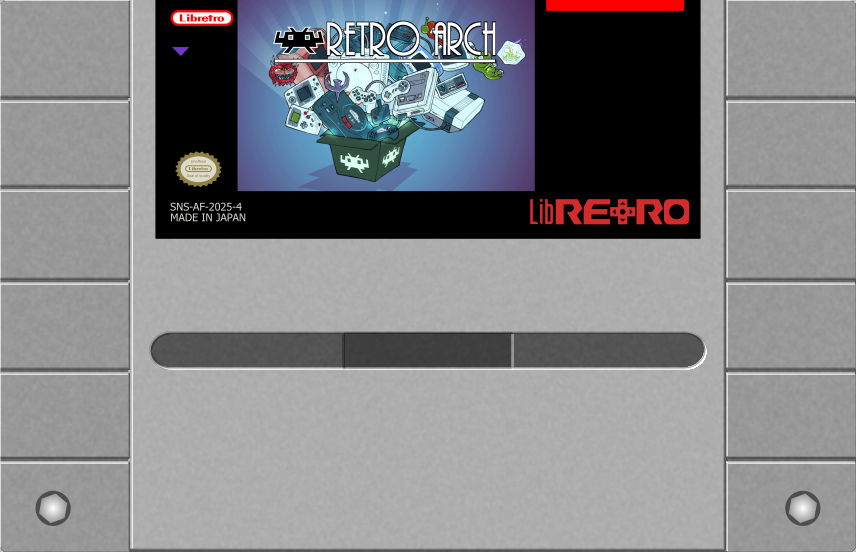
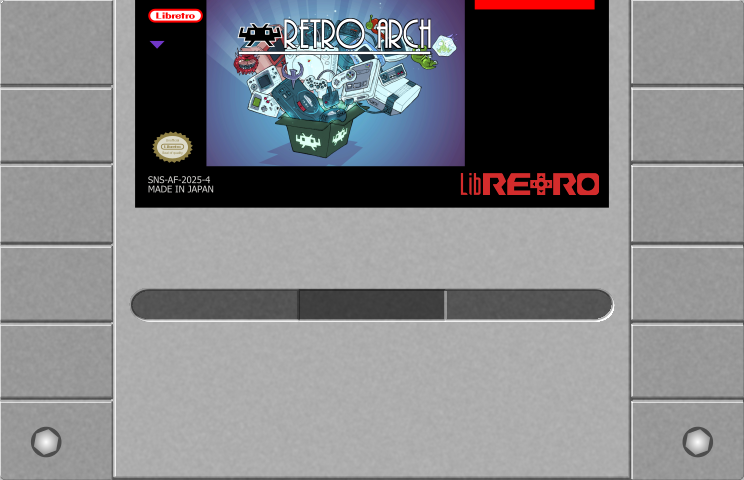
Expand the cart image and move it up a little bit

diff --git a/libretro.cpp b/libretro.cpp
@@ -302,11 +302,10 @@ bool CoreState::LoadGame(const retro_game_info& game) {
 
     // Calculate cart dimensions and positions
     pntr_vector cartSize = _cart->GetSize();
-    
-    // Set target position (center of screen)
+
     _cartTargetPosition = {
         SCREEN_WIDTH / 2 - cartSize.x / 2,
-        SCREEN_HEIGHT / 2 - cartSize.y / 2
+        SCREEN_HEIGHT / 4 - cartSize.y / 4
     };
     
     // Set start position (above screen)
